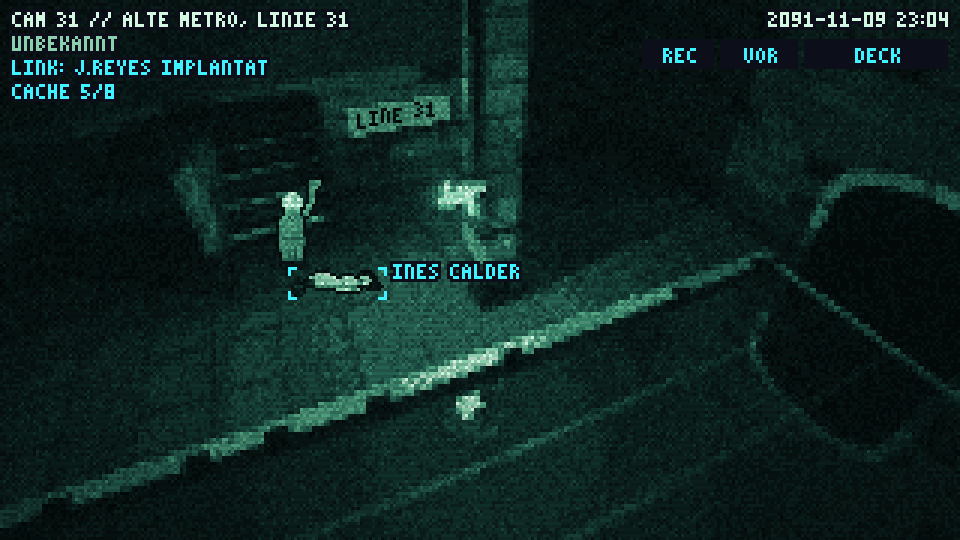
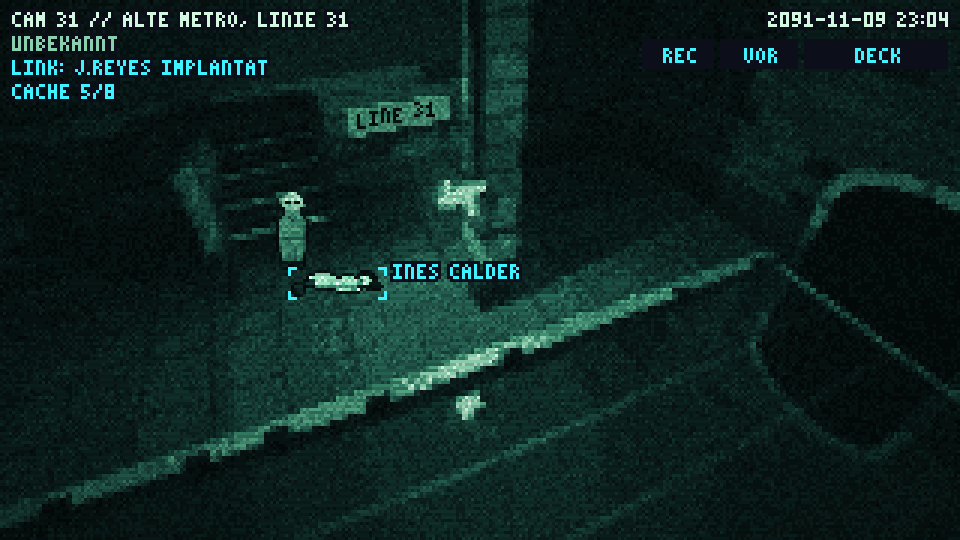
Ashe no longer waves: after the murder he raises his head and looks into the camera, two dark slits appearing in the white burn, and then the picture tears and the feed dies. The mask stays, since story §4 and Chapter 2's forged clip need it and Juno does not recognise him yet, so the eyes are all h

diff --git a/assets/characters.js b/assets/characters.js
@@ -1,23 +1,23 @@
 // Generated by tools/build-atlas.mjs. Do not edit.
 Cutaway.assets.pack({
   images: {
[2 lines of base64/hex data omitted]
   },
   anims: {
     "ashe_feed": { image: "characters_atlas", frames: [[393,157,17,26,1300],[410,157,17,26,260]] },
     "ashe_feed_dim": { image: "characters_atlas", frames: [[429,157,17,26,1300],[446,157,17,26,260]] },
     "ashe_feed_dim_walk": { image: "characters_atlas", frames: [[1,157,17,26,200],[18,157,17,26,200],[35,157,17,26,200],[52,157,17,26,200],[69,157,17,26,200],[86,157,17,26,200]] },
+    "ashe_feed_look": { image: "characters_atlas", frames: [[465,157,17,26,1300],[482,157,17,26,260]] },
     "ashe_feed_walk": { image: "characters_atlas", frames: [[105,157,17,26,200],[122,157,17,26,200],[139,157,17,26,200],[156,157,17,26,200],[173,157,17,26,200],[190,157,17,26,200]] },
-    "ashe_feed_wave": { image: "characters_atlas", frames: [[861,105,23,31,333],[884,105,23,31,333]] },
     "bao_idle_se": { image: "characters_atlas", frames: [[1,1,31,50,167],[32,1,31,50,167],[63,1,31,50,167],[94,1,31,50,167],[125,1,31,50,167],[156,1,31,50,167],[187,1,31,50,167],[218,1,31,50,167]] },
     "bao_idle_sw": { image: "characters_atlas", frames: [[251,1,31,50,167],[282,1,31,50,167],[313,1,31,50,167],[344,1,31,50,167],[375,1,31,50,167],[406,1,31,50,167],[437,1,31,50,167],[468,1,31,50,167]] },
     "bao_talk_se": { image: "characters_atlas", frames: [[753,53,31,50,160],[784,53,31,50,160],[815,53,31,50,160],[846,53,31,50,260]] },
     "bao_talk_sw": { image: "characters_atlas", frames: [[879,53,31,50,160],[910,53,31,50,160],[941,53,31,50,160],[972,53,31,50,260]] },
-    "commuter_a_feed": { image: "characters_atlas", frames: [[669,157,17,25,125]] },
-    "commuter_a_feed_walk": { image: "characters_atlas", frames: [[529,157,17,25,100],[546,157,17,25,100],[563,157,17,25,100],[580,157,17,25,100],[597,157,17,25,100],[614,157,17,25,100]] },
+    "commuter_a_feed": { image: "characters_atlas", frames: [[705,157,17,25,125]] },
+    "commuter_a_feed_walk": { image: "characters_atlas", frames: [[565,157,17,25,100],[582,157,17,25,100],[599,157,17,25,100],[616,157,17,25,100],[633,157,17,25,100],[650,157,17,25,100]] },
     "commuter_b_feed": { image: "characters_atlas", frames: [[81,185,13,23,1200],[94,185,13,23,900]] },
-    "commuter_b_feed_walk": { image: "characters_atlas", frames: [[890,157,13,23,100],[903,157,13,23,100],[916,157,13,23,100],[929,157,13,23,100],[942,157,13,23,100],[955,157,13,23,100]] },
-    "commuter_c_feed": { image: "characters_atlas", frames: [[501,157,13,26,1500],[514,157,13,26,800]] },
+    "commuter_b_feed_walk": { image: "characters_atlas", frames: [[926,157,13,23,100],[939,157,13,23,100],[952,157,13,23,100],[965,157,13,23,100],[978,157,13,23,100],[991,157,13,23,100]] },
+    "commuter_c_feed": { image: "characters_atlas", frames: [[537,157,13,26,1500],[550,157,13,26,800]] },
     "commuter_c_feed_walk": { image: "characters_atlas", frames: [[313,157,13,26,100],[326,157,13,26,100],[339,157,13,26,100],[352,157,13,26,100],[365,157,13,26,100],[378,157,13,26,100]] },
     "commuter_d_feed": { image: "characters_atlas", frames: [[543,185,13,22,1300],[556,185,13,22,700]] },
     "commuter_d_feed_walk": { image: "characters_atlas", frames: [[349,185,13,22,100],[362,185,13,22,100],[375,185,13,22,100],[388,185,13,22,100],[401,185,13,22,100],[414,185,13,22,100]] },
@@ -28,8 +28,8 @@ Cutaway.assets.pack({
     "ines_feed_front": { image: "characters_atlas", frames: [[511,185,15,22,1700],[526,185,15,22,800]] },
     "ines_feed_front_walk": { image: "characters_atlas", frames: [[257,185,15,22,100],[272,185,15,22,100],[287,185,15,22,100],[302,185,15,22,100],[317,185,15,22,100],[332,185,15,22,100]] },
     "ines_feed_give": { image: "characters_atlas", frames: [[429,185,24,22,450],[453,185,24,22,350]], anchor: [7,22] },
-    "juno_feed": { image: "characters_atlas", frames: [[858,157,15,24,1400],[873,157,15,24,800]] },
-    "juno_feed_walk": { image: "characters_atlas", frames: [[688,157,15,24,100],[703,157,15,24,100],[718,157,15,24,100],[733,157,15,24,100],[748,157,15,24,100],[763,157,15,24,100]] },
+    "juno_feed": { image: "characters_atlas", frames: [[894,157,15,24,1400],[909,157,15,24,800]] },
+    "juno_feed_walk": { image: "characters_atlas", frames: [[724,157,15,24,100],[739,157,15,24,100],[754,157,15,24,100],[769,157,15,24,100],[784,157,15,24,100],[799,157,15,24,100]] },
     "juno_idle_ne": { image: "characters_atlas", frames: [[1,105,27,50,900],[28,105,27,50,600],[55,105,27,50,120],[82,105,27,50,1100]] },
     "juno_idle_se": { image: "characters_atlas", frames: [[111,105,27,50,900],[138,105,27,50,600],[165,105,27,50,120],[192,105,27,50,1100]] },
     "juno_in_idle_ne": { image: "characters_atlas", frames: [[221,105,27,50,900],[248,105,27,50,600],[275,105,27,50,120],[302,105,27,50,1100]] },
@@ -45,16 +45,16 @@ Cutaway.assets.pack({
     "kessler_feed": { image: "characters_atlas", frames: [[109,185,13,23,1600],[122,185,13,23,700]] },
     "kessler_feed_phone": { image: "characters_atlas", frames: [[137,185,13,23,900],[150,185,13,23,600]] },
     "kessler_feed_sit": { image: "characters_atlas", frames: [[825,105,17,37,1500],[842,105,17,37,1100]] },
-    "kessler_feed_umbrella": { image: "characters_atlas", frames: [[633,157,17,25,1100],[650,157,17,25,300]] },
+    "kessler_feed_umbrella": { image: "characters_atlas", frames: [[669,157,17,25,1100],[686,157,17,25,300]] },
     "kessler_feed_walk": { image: "characters_atlas", frames: [[1,185,13,23,100],[14,185,13,23,100],[27,185,13,23,100],[40,185,13,23,100],[53,185,13,23,100],[66,185,13,23,100]] },
-    "lantern_feed": { image: "characters_atlas", frames: [[957,105,29,30,900],[986,105,29,30,900]] },
+    "lantern_feed": { image: "characters_atlas", frames: [[909,105,29,30,900],[938,105,29,30,900]] },
     "motte_sit_se": { image: "characters_atlas", frames: [[437,53,39,50,380],[476,53,39,50,380],[515,53,39,50,380],[554,53,39,50,1100]] },
     "motte_sit_sw": { image: "characters_atlas", frames: [[595,53,39,50,380],[634,53,39,50,380],[673,53,39,50,380],[712,53,39,50,1100]] },
     "motte_talk_se": { image: "characters_atlas", frames: [[441,105,39,50,200],[480,105,39,50,200]] },
     "motte_talk_sw": { image: "characters_atlas", frames: [[521,105,39,50,200],[560,105,39,50,200]] },
-    "varga_feed": { image: "characters_atlas", frames: [[465,157,17,26,2000],[482,157,17,26,900]] },
-    "varga_feed_sit": { image: "characters_atlas", frames: [[909,105,23,31,1300],[932,105,23,31,400]] },
+    "varga_feed": { image: "characters_atlas", frames: [[501,157,17,26,2000],[518,157,17,26,900]] },
+    "varga_feed_sit": { image: "characters_atlas", frames: [[861,105,23,31,1300],[884,105,23,31,400]] },
     "varga_feed_walk": { image: "characters_atlas", frames: [[209,157,17,26,100],[226,157,17,26,100],[243,157,17,26,100],[260,157,17,26,100],[277,157,17,26,100],[294,157,17,26,100]] },
-    "yuen_cook_feed": { image: "characters_atlas", frames: [[780,157,19,24,150],[799,157,19,24,150],[818,157,19,24,150],[837,157,19,24,700]] },
+    "yuen_cook_feed": { image: "characters_atlas", frames: [[816,157,19,24,150],[835,157,19,24,150],[854,157,19,24,150],[873,157,19,24,700]] },
   },
 });

diff --git a/game/kapitel1_ende.js b/game/kapitel1_ende.js
@@ -1,6 +1,6 @@
 // Halcyon: the end of Chapter 1 (docs/kapitel1-design.md §8). Juno watches Ines die in cam31 and everything she tries
 // fails where the player can see it. One straight chain, so the solver gains a handful of states:
-//   end_beat     unknown (the overlay says ???) > threat (the player's hands are free, and nothing helps) > kill > wave > after (her flat)
+//   end_beat     unknown (the overlay says ???) > threat (the player's hands are free, and nothing helps) > kill > look > after (her flat)
 //   ines_down    Ines lies on the platform
 //   cache_clip_ines_death   Juno has it, whether she pressed REC or not: the buffer holds it
 // The clock leaves its 15-minute ticks here, which is safe only because nothing branches on these times (kapitel1.js: the hold).
@@ -18,7 +18,7 @@ Cutaway.settings.define("violence", { page: "content", pageLabel: "Inhalt", labe
 Halcyon.people.ashe = { name: "???" };
 Cutaway.actor("ashe", { name: "???", color: "#ff7a6a", speed: [5, 2.5], voice: { pitch: 50, wave: "sine", syllable: 90 },
   costume: { idle: "ashe_feed", walk: "ashe_feed_walk", talk: "ashe_feed" },
-  poses: [{ if: "end_beat=wave", idle: "ashe_feed_wave", walk: "ashe_feed_wave", talk: "ashe_feed_wave" },
+  poses: [{ if: "end_beat=look", idle: "ashe_feed_look", walk: "ashe_feed_look", talk: "ashe_feed_look" },
     // in the stairs' shadow only the mask is there, until he steps out of it (see the threat below)
     { if: "!ashe_lit", idle: "ashe_feed_dim", walk: "ashe_feed_dim_walk", talk: "ashe_feed_dim" }],
   look: ["Kein Gesicht. Da, wo eins sein müsste, brennt mir das Bild durch."],
@@ -28,7 +28,7 @@ Cutaway.routine("ashe", [{ day: 4, from: "23:02", to: "23:30", room: "cam31", at
 Cutaway.state.view("ashe_lit");
 const SHADOW_ENDS = 74;   // where the lamp's light begins on his way (art/cams/cam31.px.js: the stairs' long cheek hides it from the lamp up to here, and hides him from Ines and Lantern)
 
-Halcyon.cache.clip_ines_death = { kind: "clip", name: "CAM 31, 23:03", about: "Die alte Metro. Alles, bis er winkt." };
+Halcyon.cache.clip_ines_death = { kind: "clip", name: "CAM 31, 23:03", about: "Die alte Metro. Alles, bis er hochsieht." };
 Object.assign(Halcyon.ledger, { ines: { to: "Ines Calder", what: { dead: "tot" } } });
 Halcyon.threads.wren.push({ from: "wren", if: "ledger_wren_live", at: "23:05", text: "Zahlung erfolgt. Danke für die Live-Übertragung." });
 
@@ -156,7 +156,7 @@ Cutaway.clock.onUpdate(() => {
   else if (said < LINES.length && t >= LINE_AT[said]) Cutaway.script.run([LINES[said++]], { path: "cam31.lines" });
 });
 
-// ---- 23:03: he stands in her way. The quarrel is hers alone: he has no line in this chapter, his first word is the wave (dialog-style-guide). The clicks
+// ---- 23:03: he stands in her way. The quarrel is hers alone: he has no line in this chapter, all he says here is the look into the camera (dialog-style-guide). The clicks
 // stop answering, and Juno says nothing more
 const BARS = [{ cam31_fx: { bars: 1 }, ms: 700 }, { sfx: "static" }, { wait: 500 }, { sfx: "body_fall" }, { set: "ines_down" }, { wait: 1600 }, { cam31_fx: { bars: 0 }, ms: 900 }];
 const SHOWN = [{ cam31_fx: { tear: 0.9 }, ms: 200 }, { sfx: "static" }, { sfx: "body_fall" }, { set: "ines_down" }, { wait: 300 }, { cam31_fx: { tear: 0 }, ms: 800 }, { wait: 900 }];
@@ -175,7 +175,7 @@ Cutaway.moment("ines_death", { room: "cam31", day: 4, from: "23:03", to: "23:30"
   { set: "cache_clip_ines_death" },
   { time: "23:04" },
   { wait: 1500 },
-  { set: "end_beat", value: "wave" },
+  { set: "end_beat", value: "look" },
   { wait: 3600 },
   { sfx: "glitch" }, { cam31_fx: { tear: 1 }, ms: 900 },
   { goto: "signal_lost", transition: false },

diff --git a/art/characters/feed_people.px.js b/art/characters/feed_people.px.js
@@ -21,7 +21,7 @@
 //   yuen_cook       paper cap 8, apron 7, chopping at his counter
 //   ines            the end of Chapter 1, front and back: the white coat 9, a dark plait cut into it; a wallet with a light
 //   lantern         one profile, in the water, like the wheelchair sign: a thick wheel 8, a poncho 7, antennas with lit tips 9
-//   ashe            front only: a raincoat 8, no face, a burn 9 with no dark rim; the same in the shadow; the wave
+//   ashe            front only: a raincoat 8, no face, a burn 9 with no dark rim; the same in the shadow; the look into the camera
 //
 // Walks: 6 frames x 100 ms, the same foot table as juno_feed_walk (the feet step 2 across and 1 up).
 
@@ -601,8 +601,7 @@ function asheBody(c, v, o = {}) {
   fpLegs(c, { ...FA_LEGS, W: FA.W + 2 * ox, H: FA.H + dy, near: FA_LEGS.near + ox, far: FA_LEGS.far + ox, leg: v.leg, shoe: v.shoe }, o.feet ?? fpStand(FA.H + dy - 1), b)
   fpGrid(c, x + 2, y + 6 + b, FA_COAT, v)
   c.rect(x + 2, y + 17 + b - sw, 1, 2, v.H)                                      // the near hand
-  if (o.wave) { c.rect(x + 10, y + 8, 1, 6, "_") }                               // that sleeve goes up
-  else c.rect(x + 10, y + 17 + b + sw, 1, 2, v.H)
+  c.rect(x + 10, y + 17 + b + sw, 1, 2, v.H)
   c.rect(x + 4, y + 1 + b, 5, 5, v.L)                                            // the head (the rim follows it, the burn covers it)
 }
 const ASHE_BURN = [
@@ -618,6 +617,7 @@ function asheBurn(c, o = {}) {
   const x = FA.X + (o.ox ?? 0), b = o.bob ?? 0, y = FA.Y + (o.dy ?? 0) + (o.up ?? 0)
   c.rect(x + 3, y + b, 7, 1, "_")                                                // what the rim left over the head
   fpGrid(c, x + 3, y + b, ASHE_BURN, { 8: "8", 9: "9" })
+  if (o.eyes) { c.rect(x + 4, y + 3 + b, 2, 1, "2"); c.rect(x + 7, y + 3 + b, 2, 1, "2") }
   if (o.flare) { c.px(x + 2, y + 2 + b, "8"); c.px(x + 2, y + 3 + b, "8"); c.px(x + 10, y + 4 + b, "8") }
 }
 const ashe = (c, v, o = {}) => { asheBody(c, v, o); fpRim(c, FA.W, FA.H, "1"); asheBurn(c, o) }
@@ -630,38 +630,8 @@ for (const [suffix, v] of [["", ASHE_LIT], ["_dim", ASHE_DIM]]) {
     ashe(c, v, { bob: FP_BOB[i], swing: FP_SWING[i], feet: { near: small(f.near), far: small(f.far) } })
   })
 }
-// The wave, the last thing the player sees: 5 rows taller, the hand up beside the burn, which has lifted a pixel. Two frames, out
-// and back. The canvas is 3 wider on each side, so the feet stay where ashe_feed had them. 23x31.
-const FAW = { dy: 5, ox: 3 }
-sprite("_a_wave_0", `
-  ..8888
-  ..8888
-  ..888.
-  ..88..
-  ..88..
-  ..88..
-  ..88..
-  ..88..
-  .88...
-  .88...
-  88....
-  88....`)
-sprite("_a_wave_1", `
-  ....8888
-  ....8888
-  ...888..
-  ...88...
-  ..88....
-  ..88....
-  ..88....
-  ..88....
-  .88.....
-  .88.....
-  88......
-  88......`)
-anim("ashe_feed_wave", { w: FA.W + 2 * FAW.ox, h: FA.H + FAW.dy, frames: 2, fps: 3, pivot: "bottom" }, (c) => {
-  asheBody(c, ASHE_LIT, { ...FAW, wave: true })
-  c.stamp(c.frame ? "_a_wave_1" : "_a_wave_0", FA.X + FAW.ox + 10, 1)
-  fpRim(c, FA.W + 2 * FAW.ox, FA.H + FAW.dy, "1")
-  asheBurn(c, { ...FAW, up: -1 })
+// The look, the last thing the player sees: the head comes up a pixel, and in the burn two dark slits look into the camera. Still no
+// face (story §4; Chapter 2's forged clip needs the mask): eyes are all he shows. The same canvas as ashe_feed, so nothing jumps.
+anim("ashe_feed_look", { w: FA.W, h: FA.H, frames: 2, ms: [1300, 260], pivot: "bottom" }, (c) => {
+  asheBody(c, ASHE_LIT); fpRim(c, FA.W, FA.H, "1"); asheBurn(c, { flare: c.frame, up: -1, eyes: true })
 })

diff --git a/art/characters/feed_people_review.px.js b/art/characters/feed_people_review.px.js
@@ -55,12 +55,12 @@ scene("review_feed_ch1", { w: 430, h: 114, bg: "2" }, (c) => {
   const FIGS = [[10, "kessler_feed", 0], [28, "ines_feed_front", 0], [44, "ines_feed_front", 1700], [60, "ines_feed_front_walk", 0], [76, "ines_feed_front_walk", 300],
     [92, "ines_feed_back", 0], [108, "ines_feed_back_walk", 300], [130, "ines_feed_give", 0], [160, "ines_feed_give", 450], [192, "ines_feed_down", 0],
     [224, "lantern_feed", 0], [262, "lantern_feed", 900],
-    [324, "ashe_feed", 0], [342, "ashe_feed_walk", 200], [362, "ashe_feed_wave", 0], [382, "ashe_feed_wave", 400], [402, "ashe_feed_dim", 0], [420, "ashe_feed_dim_walk", 200]]
+    [324, "ashe_feed", 0], [342, "ashe_feed_walk", 200], [362, "ashe_feed", 0], [382, "ashe_feed_look", 0], [402, "ashe_feed_dim", 0], [420, "ashe_feed_dim_walk", 200]]
   GROUNDS.forEach((k, i) => {
     const y = 12 + i * STRIP + STRIP - 3
     FIGS.forEach(([x, n, t]) => c.stamp(n, x, y, { t }))
   })
-  for (const [x, s] of [[3, "1.75M"], [24, "INES"], [90, "HINTEN"], [124, "GIBT"], [180, "LIEGT"], [212, "LANTERN"], [318, "ASHE"], [356, "WINKT"], [398, "DUNKEL"]]) c.text(x, 3, s, "8")
+  for (const [x, s] of [[3, "1.75M"], [24, "INES"], [90, "HINTEN"], [124, "GIBT"], [180, "LIEGT"], [212, "LANTERN"], [318, "ASHE"], [356, "BLICK"], [398, "DUNKEL"]]) c.text(x, 3, s, "8")
   for (let i = 0; i < 3; i++) c.rect(1, 12 + i * STRIP + STRIP - 3 - 24, 1, 24, "7")          // 24 px, the scale's mark
 })
 

diff --git a/art/cams/cam31.px.js b/art/cams/cam31.px.js
@@ -280,10 +280,10 @@ scene("review_cam31", { w: W, h: H, bg: "0" }, paintBg, signText, lampBox, (c) =
   put(c, "ines_feed_front", "edge")
   put(c, "lantern_feed", "lantern")
 })
-// 23:04: she lies where she stood, he has come to her and waves up at the camera; Lantern is gone
+// 23:04: she lies where she stood, he stands over her and looks up into the camera; Lantern is gone
 scene("review_cam31_ende", { w: W, h: H, bg: "0" }, paintBg, signText, lampBox, (c) => {
   put(c, "ines_feed_down", "meet")
-  put(c, "ashe_feed_wave", "asheMeet", 400)
+  put(c, "ashe_feed_look", "asheMeet", 0)
 })
 // the two hard cases for the values: Ashe in his shadow, only the mask there; Lantern on his way out, on the water and
 // at the tunnel's mouth

diff --git a/docs/NEXT-SESSION.md b/docs/NEXT-SESSION.md
@@ -25,7 +25,7 @@ Where we are (everything is committed; the engine copy is at Cutaway.js be4941d)
     NOODLES without two letters, Juno can sit down alone (dach_sitzen). The photo is of 2074, Juno 14, Teo 6. The look up at the Rings is mock B
     (docs/mockups/mock_g_ringe_b_x3.png), which I accepted; A is beside it.
   - **Ashe** (Corvin Ashe, formerly Rask) kills because a trial would make the logs public and a murder can be pinned on Lantern; Aubrecht gives the order without calling it one;
-    he was an observer in Juno's hall himself, which is why he waves (story §10b).
+    he was an observer in Juno's hall himself, which is why he looks into the camera (story §10b, §10c).
   - The bag: what Juno holds is an item (ID, hook, Ines's stick; later the tap and the rice), clips and notes stay in the CACHE. EVI sits fixed in the bag and only talks.
 
   - **The end in cam31 is painted** (game/kapitel1_ende.js, kapitel1-design §8; step 1 below): Ines, Lantern, Ashe; the four tries that all fail, in real time with the VOR button as the way the tools take; black bars or shown (settings, page "Inhalt"); SIGNAL LOST; her flat, where it goes on by itself with EVI in her corner; the end card. I have only seen stills of it; how long the threat should last and every line not in §8 are mine to judge by playing.
@@ -39,7 +39,7 @@ Where we are (everything is committed; the engine copy is at Cutaway.js be4941d)
 
 **Next: paint what I approved as blocks (2026-11-06; story §10c).** Use fresh agents, one per picture, each with an exact brief, and check every result yourself at 1x and 3x. Read docs/style-guide.md and the pxl skill first. Show me the result before wiring in the next.
 
-1. **The murder is painted** (not yet judged by me: I have only seen stills). `art/cams/cam31.px.js` (baked at half resolution), the figures in `art/characters/feed_people.px.js`; pictures: docs/cams/cam31_x3.png, cam31_uebergabe_x3.png, cam31_streit_x3.png, cam31_ende_x3.png, cam31_leer_x3.png, docs/characters/feed_ch1_x4.png. Ines appears at the top of the stairs and walks down to the edge; Lantern faces her while they talk; she holds out the wallet with its light (`ines_gives`). **The order is mine (story §10c):** Lantern drives off first and sees nothing, the stairs' long cheek hides the shadow from him and from her; Ashe stands there as a bare burn (`ashe_feed_dim`); the four tries run while she looks after Lantern, then she walks towards the stairs and he steps into her way and turns lit where the lamp's light begins (view flag `ashe_lit`, x 74); a quarrel of which only she is heard, since he has no line in this chapter; the murder; the wave. Lantern is now a silhouette like the wheelchair sign, one sprite `lantern_feed` in pure profile, larger than the scale (31x32), mirrored by the engine: flat shapes, because thin lines do not survive at this size. A close-up with the floats and the motor is a possible later step, not decided.
+1. **The murder is painted** (not yet judged by me: I have only seen stills). `art/cams/cam31.px.js` (baked at half resolution), the figures in `art/characters/feed_people.px.js`; pictures: docs/cams/cam31_x3.png, cam31_uebergabe_x3.png, cam31_streit_x3.png, cam31_ende_x3.png, cam31_leer_x3.png, docs/characters/feed_ch1_x4.png. Ines appears at the top of the stairs and walks down to the edge; Lantern faces her while they talk; she holds out the wallet with its light (`ines_gives`). **The order is mine (story §10c):** Lantern drives off first and sees nothing, the stairs' long cheek hides the shadow from him and from her; Ashe stands there as a bare burn (`ashe_feed_dim`); the four tries run while she looks after Lantern, then she walks towards the stairs and he steps into her way and turns lit where the lamp's light begins (view flag `ashe_lit`, x 74); a quarrel of which only she is heard, since he has no line in this chapter; the murder; he looks up into the camera, two dark slits in the burn. Lantern is now a silhouette like the wheelchair sign, one sprite `lantern_feed` in pure profile, larger than the scale (31x32), mirrored by the engine: flat shapes, because thin lines do not survive at this size. A close-up with the floats and the motor is a possible later step, not decided.
    - **What may still be weak:** Ashe reads pale grey-green rather than white; in the shadow, dim, he is a floating ball until he steps out, it could read as a lamp; Lantern at his spot has his head and antennas against the bright edge strip (6 px down-right would help, the spot was mine to decide); Ines's head nearly goes on dark ground; the background has no drops yet (`docs/kapitel1-design.md` §8 names them), the picture is still but for the post-effects; the tile and tide marks mostly vanish in the game except on the pillar, the top right is nearly black.
    - Added beyond the blocks: two tide lines, enamel panels with gaps, rust and leak runs, the rails under the water, a vault above the camera that is only seen in the water (its glow is the water's sheen). A float on a line was tried and dropped: it did not read at 1x.
 2. **Next: the figures of the city.** Source: art/characters/stadt_people_blocks.px.js (its header says which pictures it copies into a scratch folder first); pictures: docs/characters/stadt_people_blocks_x4.png, stadt_people_blocks_room_x3.png. They replace `mock_regen`, `mock_imai`, `mock_prediger`, `mock_monteur`.

diff --git a/docs/kapitel1-design.md b/docs/kapitel1-design.md
@@ -278,7 +278,7 @@ ihr Bild körniger als alle anderen, und es flackert. **Juno kann nichts tun, un
 | 23:00 | Lantern kommt durch das Wasser aus dem Tunnel, in seinem Rollstuhl mit Schwimmern (Poncho, Antennen; Story §4). Zuhören: Ines: „Es ist alles drauf. Die Protokolle passen auf die Sekunde.“ Lantern: „Wenn das stimmt ...“ Ines: „Es stimmt. Sie schlafen nicht. Sie *arbeiten*.“ Sie gibt ihm die Daten-Wallet. Fehlt der Stick (C6a): Lantern: „Der Schlüssel war nicht da.“ Ines erstarrt. | — |
 | 23:02 | Lantern wirft den Motor an und verschwindet im Tunnel (entschieden 2026-11-06): Er flieht nicht und lässt sie nicht im Stich, er sieht nichts, denn die lange Wange der Treppe verdeckt den Schatten daneben für ihn und für Ines. Dort steht ein Mann im weißen Regenmantel. Im Feed hat er kein Gesicht: Seine Maske überstrahlt die Kamera zu einem weißen Fleck. Das Overlay versucht ihn zu markieren und zeigt `???`, dann rot `BEDROHUNG`. Ines sieht Lantern nach. Dann will sie zurück zur Treppe. | Juno: „Wer ist das?“ „Sie sieht ihn nicht.“ Jetzt lässt das Spiel alles anklicken, und nichts hilft: **Steuern:** Diese Kamera hat nichts zum Steuern, kein Licht, keine Tür: `KEIN ZUGRIFF`. **Chat an Ines:** `NICHT ZUGESTELLT`. **Lautsprecher:** Die Kamera hat keinen. **Revier 9** im Chat: „Ihre Meldung wird bearbeitet.“ Juno, leiser werdend: „Er wartet. Nein. Nicht die Treppe. Ines.“ |
 | 23:03 | Auf dem Weg tritt er ihr plötzlich in den Weg. Ein Streit, von dem man nur ihre Seite hört, denn er hat in diesem Kapitel keine Zeile (Vorschlag für den Wortlaut): „Sie sind nicht von der Klinik.“ „Zu spät. Er hat alles.“ „Lassen Sie mich vorbei.“ **Ashe tötet Ines** (Darstellung je nach Inhaltsoption, Story §10: schwarze Balken schließen sich, oder der Moment im Phosphor, ohne Nahaufnahme). Das alte Bild flackert und reißt dabei. Wer REC gedrückt hat, hat es: `clip_ines_death`. Wer nicht: der Puffer (Juno *muss* es haben; der Puffer hält es fest, auch wenn der Spieler zögert). | Die Klicks hören auf zu antworten. Juno sagt nichts mehr. |
-| 23:04 | Ashe hebt den Kopf und sieht in die Kamera. Er hebt eine Hand und winkt. Eine Störung läuft durchs Bild, das Overlay zuckt, und der Feed bricht ab: `SIGNAL LOST`. | Der Zeiger bleibt, aber nichts reagiert. |
+| 23:04 | Ashe hebt den Kopf und sieht in die Kamera (entschieden 2026-11-06, statt zu winken): In dem weißen Fleck erscheinen zwei dunkle Augenschlitze, mehr von ihm zeigt sich nicht. Eine Störung läuft durchs Bild, das Overlay zuckt, und der Feed bricht ab: `SIGNAL LOST`. | Der Zeiger bleibt, aber nichts reagiert. |
 | danach | Das Feed-Fenster bleibt auf `SIGNAL LOST`. Keine Musik, nur die Lüfter. Lange nichts. Dann Junos Wohnung, Straßenmodus. Der Spieler kann nichts anklicken, es geht von selbst weiter, die Zeilen klickt er weiter (entschieden 2026-11-06). Damit das sichtbar ist: schwarze Balken wie im Film, die Lampe ist aus, nur die Schirme des Decks leuchten noch. EVI ist die ganze Zeit in der Ecke zu sehen, mit dem besorgten Gesicht. Nach einer langen Pause Juno: „Ich hab's. Ich hab alles.“ EVI: „Er hat sie ausgeschaltet. Juno. Er hat sie ausgeschaltet.“ Zum ersten Mal hat EVI einen Menschen richtig gelesen. Abblende. „Kapitel 2: Aufnahme“. | |
 
 **Gebaut** (`game/kapitel1_ende.js`; Bild und Figuren sind gemalt, `art/cams/cam31.px.js`, `docs/cams/cam31_x3.png`): eine gerade Kette mit dem Flag `end_beat`, also kaum neue Zustände. Beim Durchspielen prüfen: Die vier Versuche sind Knöpfe unter der Anzeige (STEUERN, CHAT: INES, LAUTSPRECHER, REVIER 9); was zurückkam, steht danach auf dem Knopf. Nach etwa 22 Sekunden geht die Szene von allein weiter (Ines steht zuerst noch am Rand, nach 12 Sekunden geht sie los, nach 15 tritt er heraus); `VOR` kürzt das ab („Das läuft auch ohne mich.“). Die Kameraleiste ist während der Szene weg, `DECK` sagt „Ich bleib. Ich bleib dran.“ Wer REC nicht gedrückt hat, sagt zuletzt: „Ich hab nicht mal REC gedrückt. Der Puffer hält alles.“ Die beiden Fassungen stehen in den Einstellungen (Seite „Inhalt“, Gewalt), Voreinstellung sind die Balken. Ines erscheint oben auf der Treppe, Ashe steht zuerst als bloßer weißer Fleck im Schatten neben der Treppe und wird hell, wo das Licht der Lampe beginnt; bei der Übergabe hält Ines die Wallet mit ihrem kleinen Licht hin. Vorschläge, noch nicht entschieden: alle Zeilen, die nicht in der Tabelle stehen, auch EVIs Hinweise.

diff --git a/docs/story.md b/docs/story.md
@@ -566,7 +566,7 @@ Optional, über die Kapitel verteilt; jede zeigt auch etwas von der Stadt.
 - **Der Mörder heißt Corvin Ashe** (bisher Rask, zu nah an Ratz). Ashe passt zum weißen Mantel und zu dem, was er zurücklässt.
 - **Warum Ashe Ines tötet, statt sie zu verhaften:** Ein Prozess würde ihre Protokolle öffentlich machen. Ein Mord lässt sich Lantern anhängen, das geschieht in Kapitel 2 mit dem gefälschten Clip.
 - **Den Befehl gibt Aubrecht**, ohne es so zu nennen: Sie liest nur eine Zeile, „Das Problem Calder ist gelöst“.
-- **Ashe war früher Beobachter in Junos Halle.** Deshalb winkt er in die Kamera: `cam31` versteht nur das alte Protokoll, also weiß er, was für ein Mensch gerade zusieht. Auch nach einer Weigerung bleibt der Quiet nur eine kurze Liste.
+- **Ashe war früher Beobachter in Junos Halle.** Deshalb sieht er in die Kamera (bis 2026-11-06: er winkte): `cam31` versteht nur das alte Protokoll, also weiß er, was für ein Mensch gerade zusieht. Auch nach einer Weigerung bleibt der Quiet nur eine kurze Liste.
 - **Kapitel 1, vorläufig bis zum Durchspielen im Mock** (`kapitel1-design`): Am Freitag gibt es kein Schlafen, nach 22:00 gilt „nicht gesendet“, um 22:30 bucht das Konto die Miete ab und
   Teo schreibt, wenn sie nicht reicht, und die Uhr hält um 22:45, bis Juno auf `cam31` zusieht. Wer den Donnerstag verschläft, findet den Ort am Freitag über Ines' Weg am Sumpf-Abgang.
   `cam12` und `cam30` gehen über Junos alten Zugang, `cam24` über Sable oder Mottes zweite Lektion; das „Kassenbuch-Rätsel“ ist gestrichen. Ines ist von Anfang an nicht
@@ -596,6 +596,7 @@ Die Blockskizzen für den Mord und die Figuren der Stadt sind freigegeben (`docs
 - **Das Gerüst des Monteurs steht immer da,** auch im Prolog und auf dem Menübild (`„Der Kollege kommt seit 2087“`).
 - **Frau Imai sitzt an einem kleinen Tisch** im LUCKY STATIC.
 - **Die Regenleserin hat ihre eigene Regenrinne** auf einer Stange vor der Brüstung. Das ändert das Dach von heute, nicht das alte Foto am Deck.
-- **Der Ablauf in `cam31`:** Lantern fährt zuerst weg, danach will Ines zurück zur Treppe, der Mann tritt ihr plötzlich in den Weg, es gibt einen Streit, und er ermordet sie. Lantern sieht nichts und lässt sie nicht im Stich: Die lange Wange der Treppe verdeckt den Schatten daneben für ihn und für Ines; nur die Kamera sieht hinein, und so bleiben Juno die vier Versuche. Vom Streit hört man nur Ines, Ashes erste Äußerung bleibt das Winken. *Vorschlag, noch nicht entschieden:* Ashe lässt Lantern absichtlich ziehen, denn der soll den Mord tragen; und Junos echter Clip zeigt, dass Lantern schon fort war, als Ines starb, was die Fälschung in Kapitel 2 widerlegt.
+- **Der Ablauf in `cam31`:** Lantern fährt zuerst weg, danach will Ines zurück zur Treppe, der Mann tritt ihr plötzlich in den Weg, es gibt einen Streit, und er ermordet sie. Lantern sieht nichts und lässt sie nicht im Stich: Die lange Wange der Treppe verdeckt den Schatten daneben für ihn und für Ines; nur die Kamera sieht hinein, und so bleiben Juno die vier Versuche. Vom Streit hört man nur Ines, Ashes erste Äußerung ist sein Blick in die Kamera. *Vorschlag, noch nicht entschieden:* Ashe lässt Lantern absichtlich ziehen, denn der soll den Mord tragen; und Junos echter Clip zeigt, dass Lantern schon fort war, als Ines starb, was die Fälschung in Kapitel 2 widerlegt.
+- **Ashe winkt nicht mehr, er sieht hoch:** Nach dem Mord hebt er den Kopf und sieht in die Kamera, zwei dunkle Augenschlitze in dem weißen Fleck. Die Maske bleibt: Sein Gesicht zeigt sich hier nicht, das Rätsel um die Fälschung in Kapitel 2 braucht sie, und Juno erkennt ihn noch nicht.
 - **Lantern im Rollstuhl** ist im Feed eine klare Silhouette wie das Rollstuhl-Piktogramm: reines Profil aus Flächen, der Mann ein L, ein dickes Rad über der Hüfte, ein Lenkrad, zwei Antennen; gespiegelt, wenn er nach links fährt. Größer als der Maßstab (32 px statt etwa 25), weil das Rad sonst nicht zu lesen war. Dünne Linien wie Speichen überleben Rand, Korn und Scanlines nicht; der Umbau (Schwimmer, Motor) kommt, wenn überhaupt, in eine Nahaufnahme.
 - **Die Technik der anderen:** die Regenleserin ein Tropfenzähler am Eimer, der Prediger ein Zähler um den Hals mit seinen wachen Tagen (9, 10, 11), der Monteur eine Stirnlampe und `9-A` auf dem Rücken.

diff --git a/docs/story-lesefassung.md b/docs/story-lesefassung.md
@@ -300,7 +300,7 @@ Der Mann tötet sie. Das alte Bild flackert und reißt dabei. In der Voreinstell
 hört es nur; wer es in den Einstellungen wählt, sieht es im Phosphor, ohne Nahaufnahme. Beide Fassungen erzählen dasselbe. Die Klicks
 hören auf zu antworten. Juno sagt nichts mehr.
 
-Dann hebt der Mann den Kopf, sieht direkt in die Kamera und winkt. Eine Störung läuft durchs Bild, das Overlay zuckt. `SIGNAL LOST`.
+Dann hebt der Mann den Kopf, und sieht direkt in die Kamera: zwei dunkle Schlitze in dem weißen Fleck. Eine Störung läuft durchs Bild, das Overlay zuckt. `SIGNAL LOST`.
 
 Keine Musik, nur die Lüfter. Lange nichts.
 

diff --git a/docs/dialog-style-guide.md b/docs/dialog-style-guide.md
@@ -304,7 +304,7 @@ nennt sie nie so.
 
 Höflich, geduldig, kontrolliert. Je höflicher, desto bedrohlicher. Nie wie ein Mörder aus dem Actionfilm: Er erklärt nicht, was er vorhat,
 und macht nur deutlich, dass er mehr weiß, als Juno lieb ist. Er war Beobachter in ihrer Halle und redet mit ihr wie mit einer Kollegin, die
-denselben Beruf hat. Seine erste Äußerung im Spiel ist ein Winken in die Kamera. Noch keine Zeile.
+denselben Beruf hat. Seine erste Äußerung im Spiel ist ein Blick in die Kamera. Noch keine Zeile.
 
 ### Der Zeuge
 
